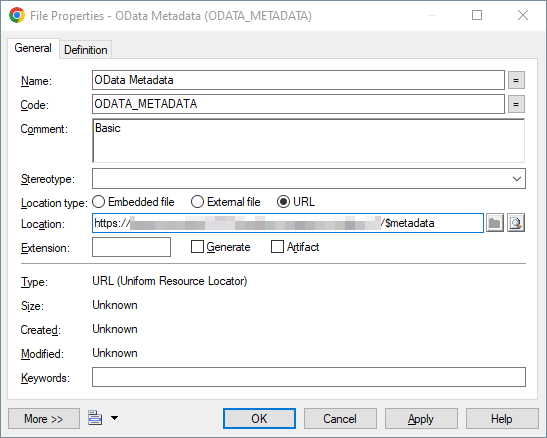
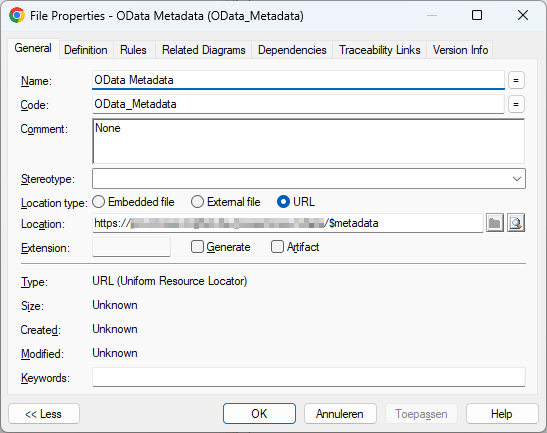
Changed OData file code to OData_Metadata to fix issue #21 Implemented debug mode using PowerDesigner variable and updated README.

diff --git a/PowerDesigner_OData_AddIn/PdLogger.cs b/PowerDesigner_OData_AddIn/PdLogger.cs
@@ -1,15 +1,30 @@
 using System;
+using System.CodeDom;
 
 namespace CrossBreeze.Tools.PowerDesigner.AddIn.OData
 {
     public class PdLogger
     {
+        // Set the name of the PowerDesigner variable to use, to enable the debug mode.
+        private static String DEBUG_MODE_VARIABLE_TEMPLATE = "%$ODATA_DEBUG_MODE%";
+
         // A reference to the PowerDesigner Application object.
         private PdCommon.Application _app;
 
         public PdLogger(PdCommon.Application app)
         {
             this._app = app;
+        }
+
+        /// <summary>
+        /// Function to check whether debug mode is eanbled.
+        /// </summary>
+        /// <returns></returns>
+        private bool IsDebugMode()
+        {
+            if (this._app.ActiveModel != null)
+                return (((PdCommon.BaseModel)this._app.ActiveModel).EvaluateText(DEBUG_MODE_VARIABLE_TEMPLATE).ToLower().Equals("true"));
+            return false;
         }
 
         /// <summary>
@@ -57,7 +72,9 @@ namespace CrossBreeze.Tools.PowerDesigner.AddIn.OData
         /// <param name="message">The debug message to write in the PowerDesigner output window</param>
         public void Debug(String message)
         {
-            this.Log(message, "DEBUG");
+            // Only write debug messages if debug mode is enabled.
+            if (this.IsDebugMode())
+                this.Log(message, "DEBUG");
         }
 
         /// <summary>

diff --git a/PowerDesigner_OData_AddIn/PdODataModelUpdater.cs b/PowerDesigner_OData_AddIn/PdODataModelUpdater.cs
@@ -12,7 +12,7 @@ namespace CrossBreeze.Tools.PowerDesigner.AddIn.OData
     {
         // Name of the metadata file.
         const string ODATA_METADATA_FILE_NAME = "OData Metadata";
-        const string ODATA_METADATA_FILE_CODE = "ODATA_METADATA";
+        const string ODATA_METADATA_FILE_CODE = "OData_Metadata";
 
         /// <summary>
         /// A list of supported OData authentication methods.
@@ -46,7 +46,7 @@ namespace CrossBreeze.Tools.PowerDesigner.AddIn.OData
         /// <returns></returns>
         public static PdCommon.FileObject GetODataMetadataFile(PdPDM.Model pdmModel)
         {
-            var oDataMetadataFile = pdmModel.FindChildByCode(PdODataModelUpdater.ODATA_METADATA_FILE_CODE, (int)PdCommon.PdCommon_Classes.cls_FileObject);
+            var oDataMetadataFile = pdmModel.FindChildByCode(PdODataModelUpdater.ODATA_METADATA_FILE_CODE, (int)PdCommon.PdCommon_Classes.cls_FileObject, "", null, false, false);
             if (oDataMetadataFile == null)
             {
                 return null;

diff --git a/README.md b/README.md
@@ -8,7 +8,7 @@
 An AddIn for PowerDesigner to synchronize OData metadata with a PDM model
 
 ## Installation
-In order to use the plugin, execute the MSI installer which can be downloaded as a build artifact on the latest stable [main build](https://github.com/CrossBreezeNL/PowerDesigner-OData-AddIn/actions/workflows/main.yml).
+In order to use the plugin, execute the MSI installer which can be downloaded from the asserts list from the latest [stable release](https://github.com/CrossBreezeNL/PowerDesigner-OData-AddIn/releases).
 
 Make sure to restart PowerDesigner after the installation. Then open Tools -> General Options -> Add-Ins and enable the 'OData' Add-In (by ticking the tick box before it).
 
@@ -33,7 +33,7 @@ Next to the tables there will also be a file named 'OData Metadata', which is a 
 > The authentication information is not stored in the model. The authentication information will be asked for every time you update the model.
 
 ### Updating existing reverse engineered OData model
-For any physical data model which contains a file with the code 'ODATA_METADATA' the menu option `Update model from OData metadata` will be available.
+For any physical data model which contains a file with the code 'OData_Metadata' the menu option `Update model from OData metadata` will be available.
 
 ![Model menu update model](./screenshots/model-menu-update-option.png)
 
@@ -44,7 +44,7 @@ If the authentication type is not `None`, a dialog will popup where the authenti
 ### Manually adding OData Metadata file
 When you want to update an existing model which was not reverse engineered using the Reverse Engineer menu option, you can manually add the OData Metadata file. Follow the steps below to do so:
 1. Right-click on the model, choose `New` > `File`.
-1. Given the new file the `Name` 'OData Metadata' and the `Code` 'ODATA_METADATA'.
+1. Given the new file the `Name` 'OData Metadata' and the `Code` 'OData_Metadata'.
 1. Set the `Location type` to 'URL'.
 1. Set the `Location` to the URL to the $metadata location of the OData metadata service.
 1. Set the `Comment` value either to 'None' or 'Basic', depending on the required authentication method.
@@ -53,13 +53,15 @@ When you want to update an existing model which was not reverse engineered using
 
 ![Model OData Metadata file](./screenshots/model-metadata-file-properties.png)
 
-Once you have completed the above steps the update menu opion will be available as explained in [Updating existing reverse engineered OData model](#updating-existing-reverse-engineered-odata-model).
+Once you have completed the above steps the update menu option will be available as explained in [Updating existing reverse engineered OData model](#updating-existing-reverse-engineered-odata-model).
 
 ## Debugging
 To debug the plugin:
 
 - Open the [solution](./PowerDesigner_OData_AddIn.sln) in Visual Studio which is running as Administator (so it can register new DLLs)
 - Build the project in Debug (this will also register the Add-In in the Windows Registry for PowerDesigner).
+- Enable debug mode in PowerDesigner for the OData Add-In by creating a variable named 'ODATA_DEBUG_MODE' and give it the value 'True'.
+  ![Enable debug mode](./screenshots/general-options-debug-mode.png)
 
 Now you can enable the Add-In in PowerDesigner in Tools -> General Options -> Add-Ins. The name of the Add-In is 'OData'. If the OData add-in is disabled in PowerDesigner (checkbox is grayed out) it might be needed to run PowerDesigner as Administrator.
 
